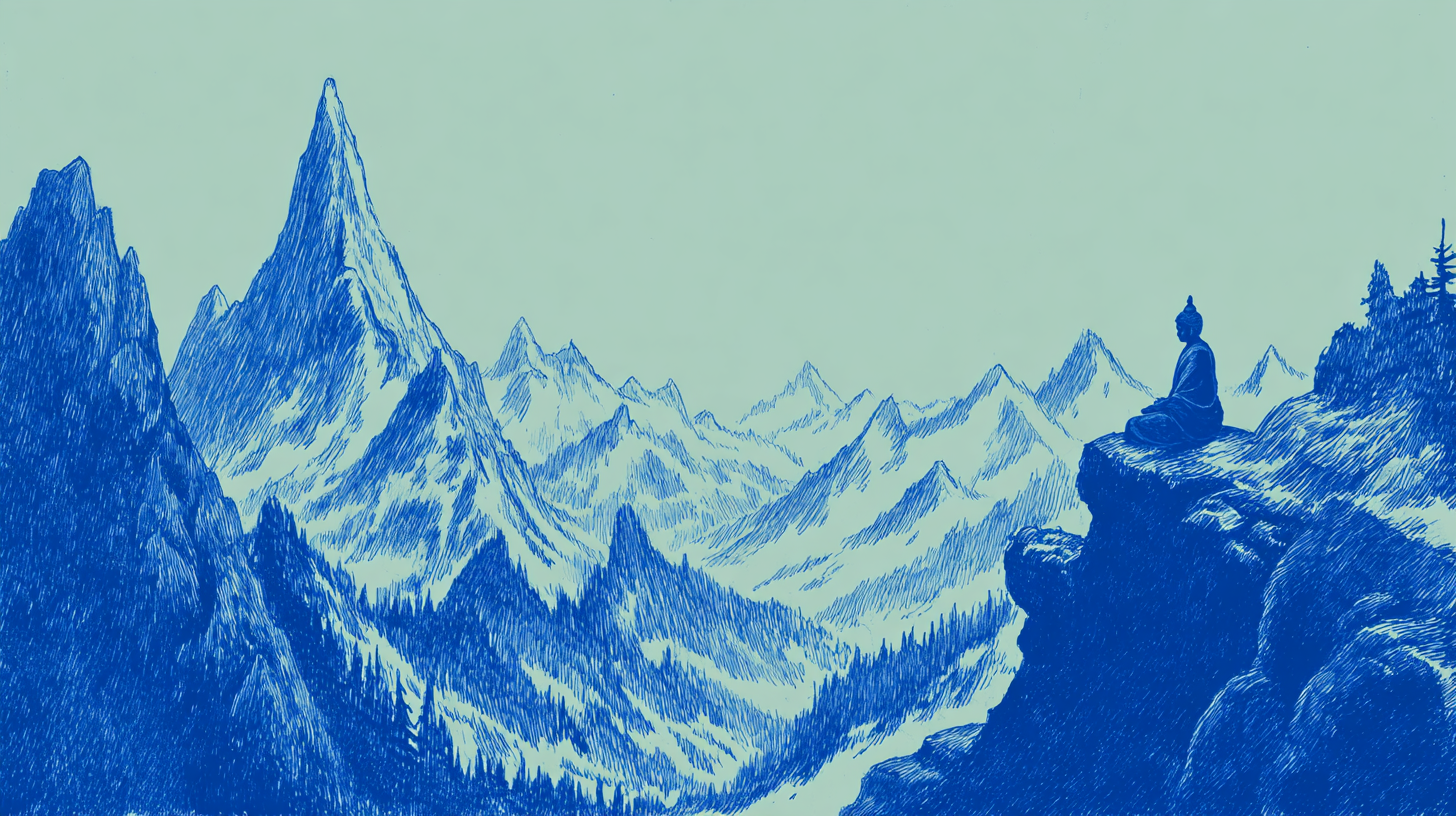
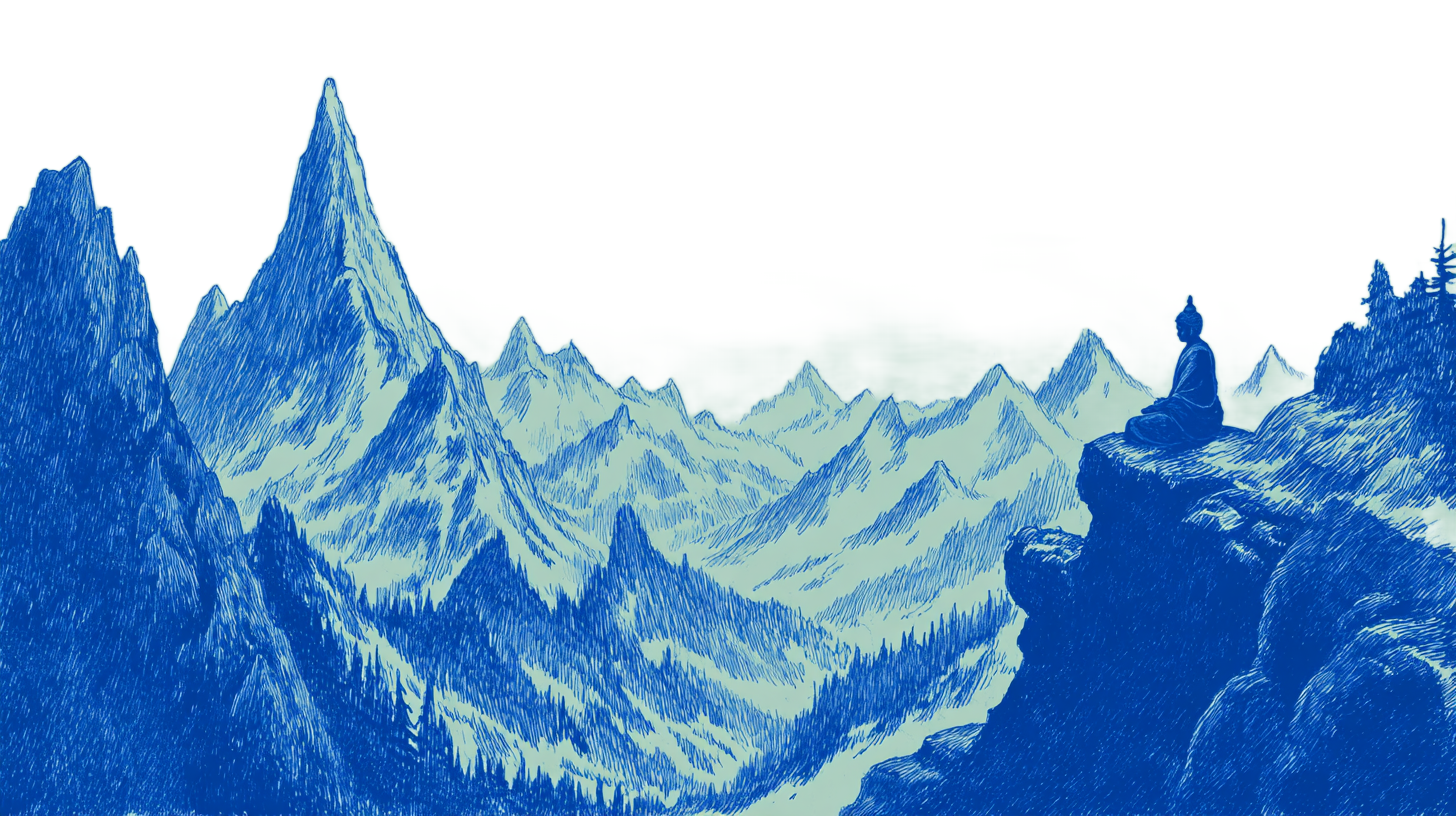
backgruond and better ground! note: bad tiling with the bounding boxes of te ground still

diff --git a/src/render.js b/src/render.js
@@ -19,7 +19,6 @@ import {
   isWorldLoaded,
   getWorldData,
   getTileSize,
-  TILE_COLORS,
   getWorldPixelWidth,
   getWorldPixelHeight,
 } from './world.js';
@@ -31,9 +30,12 @@ import { SPRITE_SCALE, ANIM_SPEED, LOOPS, getAnimState } from './sprites.js';
 // Camera
 // ---------------------------------------------------------------------------
 
-/** Player viewport vertical offset — shows a bit more terrain below player. */
-/** Recomputed each frame so resizing doesn't shift the vertical viewport anchor. */
-function _camYOffset() { return getCanvasHeight() * 0.45; }
+/**
+ * How far from the top of the screen the player's centre sits.
+ * Set to ~0.78 so the ground (player feet) lands at roughly 4/5 down —
+ * i.e. 1/5 from the bottom — giving a wide, airy sky.
+ */
+function _camYOffset() { return getCanvasHeight() * 0.78; }
 
 // ---------------------------------------------------------------------------
 // Layer references (initialised lazily on first render call)
@@ -70,14 +72,11 @@ const _liveIds = new Set();
 // ---------------------------------------------------------------------------
 
 /** @type {PIXI.Graphics|null} */
-let _tileGfx = null;
+let _groundGfx = null;
 
-const _tileCache = {
-  worldWidth: -1, worldHeight: -1, tileSize: -1,
-  worldRevision: -1,
-  startX: -1, endX: -1, startY: -1, endY: -1,
-  valid: false,
-};
+/** Cached per-column surface Y (world-px). Rebuilt when world revision changes. */
+let _groundSurface   = null;   // Float32Array, length = world tile width
+let _groundRevision  = -1;
 
 // ---------------------------------------------------------------------------
 // Darkness / lighting state
@@ -142,10 +141,8 @@ export function render(worldLayer, darknessLayer, entities, miningState) {
   worldLayer.x = -Math.round(camX);
   worldLayer.y = -Math.round(camY);
 
-  // ── Terrain ──────────────────────────────────────────────────────────────
-  if (isWorldLoaded()) {
-    _renderTilesIfNeeded(worldLayer, camX, camY);
-  }
+  // ── Ground ───────────────────────────────────────────────────────────────
+  _renderGround(worldLayer, camX, camY);
 
   // ── Entity visuals ───────────────────────────────────────────────────────
   _liveIds.clear();
@@ -432,55 +429,98 @@ function _getGradientTexture(radius) {
 // Terrain
 // ---------------------------------------------------------------------------
 
-function _renderTilesIfNeeded(worldLayer, camX, camY) {
-  if (!_tileGfx) {
-    _tileGfx = new PIXI.Graphics();
-    worldLayer.addChildAt(_tileGfx, 0);          // behind everything
+/**
+ * Draw a smooth, slightly rolling ground fill in a papery off-white.
+ *
+ * The ground surface is derived from the tile data (first solid tile per
+ * column), lightly smoothed, then rendered as a single filled polygon that
+ * extends from the surface down to the bottom of the world.  No grid, no
+ * individual tile colours — just a clean organic landmass.
+ *
+ * When the world isn't loaded yet the function is a no-op.
+ */
+function _renderGround(worldLayer, camX, camY) {
+  if (!isWorldLoaded()) return;
+
+  if (!_groundGfx) {
+    _groundGfx = new PIXI.Graphics();
+    worldLayer.addChildAt(_groundGfx, 0);   // behind entities
   }
 
   const world = getWorldData();
   const { tiles, width, height, tileSize: ts, revision } = world;
+  if (!tiles) return;
 
-  const startX = Math.max(0,          Math.floor(camX / ts) - 1);
-  const endX   = Math.min(width  - 1, Math.ceil((camX + getCanvasWidth())  / ts) + 1);
-  const startY = Math.max(0,          Math.floor(camY / ts) - 1);
-  const endY   = Math.min(height - 1, Math.ceil((camY + getCanvasHeight()) / ts) + 1);
-
-  const sameWindow =
-    _tileCache.valid &&
-    _tileCache.worldWidth    === width    &&
-    _tileCache.worldHeight   === height   &&
-    _tileCache.tileSize      === ts       &&
-    _tileCache.worldRevision === revision &&
-    _tileCache.startX === startX && _tileCache.endX === endX &&
-    _tileCache.startY === startY && _tileCache.endY === endY;
-
-  if (sameWindow) return;
-
-  _tileGfx.clear();
-
-  for (let ty = startY; ty <= endY; ty++) {
-    const row = ty * width;
-    const py  = ty * ts;
-
-    for (let tx = startX; tx <= endX; tx++) {
-      const tileType = tiles[row + tx];
-      if (tileType === 0) continue;
-
-      const color = TILE_COLORS[tileType] ?? 0x888888;
-      _tileGfx.beginFill(color);
-      _tileGfx.drawRect(tx * ts, py, ts, ts);
-      _tileGfx.endFill();
+  // ── Rebuild surface cache when world data changes ─────────────────────────
+  if (revision !== _groundRevision || !_groundSurface) {
+    _groundSurface  = new Float32Array(width);
+    for (let tx = 0; tx < width; tx++) {
+      let surfaceY = height * ts;           // default: world floor
+      for (let ty = 0; ty < height; ty++) {
+        if (tiles[ty * width + tx] !== 0) {
+          surfaceY = ty * ts;
+          break;
+        }
+      }
+      _groundSurface[tx] = surfaceY;
     }
+    _groundRevision = revision;
   }
 
-  _tileCache.worldWidth    = width;
-  _tileCache.worldHeight   = height;
-  _tileCache.tileSize      = ts;
-  _tileCache.worldRevision = revision;
-  _tileCache.startX = startX; _tileCache.endX = endX;
-  _tileCache.startY = startY; _tileCache.endY = endY;
-  _tileCache.valid  = true;
+  // ── Determine the tile columns that are (slightly) off-screen ─────────────
+  const W      = getCanvasWidth();
+  const worldH = height * ts;
+
+  // Add generous margin so the polygon never has a visible left/right gap.
+  const startTx = Math.max(0,         Math.floor(camX / ts) - 3);
+  const endTx   = Math.min(width - 1, Math.ceil((camX + W) / ts) + 3);
+
+  // ── Build smoothed surface points ─────────────────────────────────────────
+  // Average over a small window (±4 tiles) to soften any hard tile steps.
+  const SMOOTH_R = 4;
+  const pts = [];   // [{x, y}] in world-px
+
+  for (let tx = startTx; tx <= endTx; tx++) {
+    let sum = 0, n = 0;
+    for (let d = -SMOOTH_R; d <= SMOOTH_R; d++) {
+      const nx = Math.max(0, Math.min(width - 1, tx + d));
+      // Weight: closer columns matter more (triangle kernel)
+      const w = SMOOTH_R + 1 - Math.abs(d);
+      sum += _groundSurface[nx] * w;
+      n   += w;
+    }
+    pts.push({ x: tx * ts + ts * 0.5, y: sum / n });
+  }
+
+  // ── Draw filled ground polygon ─────────────────────────────────────────────
+  // Papery off-white — warm, slightly yellowish, like uncoated paper.
+  const GROUND_COLOR = 0xf5e6c8;
+
+  _groundGfx.clear();
+  _groundGfx.beginFill(GROUND_COLOR, 1);
+
+  // Start at bottom-left corner, trace surface left→right, close at bottom-right.
+  const leftX  = pts[0].x;
+  const rightX = pts[pts.length - 1].x;
+
+  _groundGfx.moveTo(leftX,  worldH + 200);
+  _groundGfx.lineTo(leftX,  pts[0].y);
+
+  // Use quadratic Bézier midpoints for a silky smooth curve.
+  for (let i = 0; i < pts.length - 1; i++) {
+    const p0 = pts[i];
+    const p1 = pts[i + 1];
+    const mx = (p0.x + p1.x) * 0.5;
+    const my = (p0.y + p1.y) * 0.5;
+    _groundGfx.quadraticCurveTo(p0.x, p0.y, mx, my);
+  }
+  // Finish curve through the last point
+  const last = pts[pts.length - 1];
+  _groundGfx.lineTo(last.x, last.y);
+
+  _groundGfx.lineTo(rightX, worldH + 200);
+  _groundGfx.closePath();
+  _groundGfx.endFill();
 }
 
 // ---------------------------------------------------------------------------

diff --git a/src/parallax.js b/src/parallax.js
@@ -1,0 +1,129 @@
+// parallax.js — Sequential parallax background scenes.
+//
+// Images are arranged end-to-end along the horizontal axis, each scene
+// covering a wide stretch of the world.  They only very slightly overlap at
+// their boundaries.  Each image has a tiny individual speed offset so that
+// near a boundary the two images drift apart at slightly different rates,
+// giving a sense of depth during the transition.
+//
+// Usage (main.js):
+//   const parallaxLayer = new PIXI.Container();
+//   stage.addChildAt(parallaxLayer, 0);   // behind worldLayer
+//   await initParallax(parallaxLayer);
+//   // then each frame:
+//   updateParallax(camX);
+
+import { getCanvasWidth, getCanvasHeight } from './config.js';
+
+// ---------------------------------------------------------------------------
+// Config
+// ---------------------------------------------------------------------------
+
+const FILES = ['1.png', '2.png', '3.png', '5.png', '6.png', '8.png', '10.png'];
+
+// How large to display each image (uniform scale — tweak to taste).
+const DISPLAY_SCALE = 1.0;
+
+// How much adjacent scenes overlap in screen pixels at camX = 0.
+// Keep this small — just enough to avoid a hard seam.
+const OVERLAP_PX = 2;
+
+// Base parallax factor: the background as a whole scrolls at this fraction
+// of the camera speed, making it feel like a distant backdrop.
+const BASE_SPEED = 0.85;
+
+// Each successive image gets this much extra speed on top of BASE_SPEED.
+// Tiny value — only perceptible at the boundary where two images meet.
+const SPEED_STEP = 0.012;
+
+// ---------------------------------------------------------------------------
+// State
+// ---------------------------------------------------------------------------
+
+/**
+ * @typedef {{
+ *   sprite:  PIXI.Sprite,
+ *   baseX:   number,
+ *   speed:   number,
+ *   displayW: number,
+ *   displayH: number,
+ * }} Scene
+ * @type {Scene[]}
+ */
+const _scenes = [];
+let _ready = false;
+
+// ---------------------------------------------------------------------------
+// Public API
+// ---------------------------------------------------------------------------
+
+/**
+ * Load every scene image and position the sprites end-to-end.
+ * Await this before starting the game loop to avoid pop-in.
+ *
+ * @param {PIXI.Container} container  Screen-space container (not moved by camera).
+ */
+export async function initParallax(container) {
+  const textures = await Promise.all(
+    FILES.map(f => PIXI.Texture.fromURL(`assets/paralax/${f}`))
+  );
+
+  // Nearest-neighbour keeps pixel art crisp at any scale.
+  for (const tex of textures) {
+    tex.baseTexture.scaleMode = PIXI.SCALE_MODES.NEAREST;
+  }
+
+  const H = getCanvasHeight();
+
+  // Walk left-to-right, placing each scene after the previous one minus the
+  // small overlap so they're nearly (but not completely) non-overlapping.
+  let cursorX = 0;
+
+  textures.forEach((tex, i) => {
+    const displayW = tex.width  * DISPLAY_SCALE;
+    const displayH = tex.height * DISPLAY_SCALE;
+
+    const sprite = new PIXI.Sprite(tex);
+    sprite.scale.set(DISPLAY_SCALE);
+
+    // Anchor at bottom-left so all scenes sit on the same ground line.
+    sprite.anchor.set(0, 1);
+
+    // baseX is the resting left edge of this scene in background-space.
+    const baseX = cursorX;
+
+    // Each image's individual scroll speed is BASE_SPEED + a tiny per-image
+    // increment.  The further right the scene, the marginally faster it
+    // scrolls, which causes a subtle drift between neighbours at transitions.
+    const speed = BASE_SPEED + i * SPEED_STEP;
+
+    container.addChild(sprite);
+    _scenes.push({ sprite, baseX, speed, displayW, displayH });
+
+    // Advance cursor, pulling the next scene back by OVERLAP_PX.
+    cursorX += displayW - OVERLAP_PX;
+  });
+
+  _ready = true;
+  // Position everything immediately so there's no one-frame jump.
+  updateParallax(0);
+}
+
+/**
+ * Drive the parallax scroll.  Call once per frame.
+ *
+ * @param {number} camX  Current camera X in world-space pixels.
+ */
+export function updateParallax(camX) {
+  if (!_ready) return;
+
+  const H = getCanvasHeight();
+
+  for (const { sprite, baseX, speed, displayH } of _scenes) {
+    // Each scene slides left at its own speed.  Because speed < 1 the whole
+    // backdrop moves slower than the world, and because speeds differ slightly
+    // the scenes drift relative to each other at their shared boundaries.
+    sprite.x = baseX - camX * speed;
+    sprite.y = H;
+  }
+}

diff --git a/src/main.js b/src/main.js
@@ -10,6 +10,8 @@ import { getCanvasWidth, getCanvasHeight, BG_COLOR } from './config.js';
 import { preloadAllCharacters } from './assetLoader.js';
 import { getSlots, getSelectedSlot, HOTBAR_SLOTS } from './inventory.js';
 import { TILE_COLORS } from './world.js';
+import { getCameraPosition } from './camera.js';
+import { initParallax, updateParallax } from './parallax.js';
 
 /** How often (seconds) to broadcast our position + velocity for drift correction. */
 const POSITION_SYNC_INTERVAL = 0.1;
@@ -23,7 +25,9 @@ const STATUS_SAMPLE_INTERVAL = 0.2;
   await preloadAllCharacters();
 
   const app = createApp();
-  const { worldLayer, darknessLayer, hudLayer } = createLayers(app.stage);
+  const { parallaxLayer, worldLayer, darknessLayer, hudLayer } = createLayers(app.stage);
+
+  await initParallax(parallaxLayer);
 
   setupInput();
   setupNetwork();
@@ -85,6 +89,7 @@ const STATUS_SAMPLE_INTERVAL = 0.2;
     }
 
     render(worldLayer, darknessLayer, entities, getMiningState());
+    updateParallax(getCameraPosition().x);
 
     // Hotbar — update every frame (cheap Graphics redraw, also keeps positions in sync)
     updateHotbar();
@@ -124,17 +129,20 @@ function createApp() {
 }
 
 function createLayers(stage) {
+  // parallaxLayer sits behind everything — added first so it's at index 0.
+  const parallaxLayer = new PIXI.Container();
   const worldLayer    = new PIXI.Container();
   // darknessLayer sits between the world and the HUD so it darkens terrain
   // and entities but never obscures status text or controls hint.
   const darknessLayer = new PIXI.Container();
   const hudLayer      = new PIXI.Container();
 
+  stage.addChild(parallaxLayer);
   stage.addChild(worldLayer);
   stage.addChild(darknessLayer);
   stage.addChild(hudLayer);
 
-  return { worldLayer, darknessLayer, hudLayer };
+  return { parallaxLayer, worldLayer, darknessLayer, hudLayer };
 }
 
 function buildHud(hudLayer) {

diff --git a/src/config.js b/src/config.js
@@ -5,7 +5,7 @@
 // just more world visible).
 export function getCanvasWidth()  { return window.innerWidth;  }
 export function getCanvasHeight() { return window.innerHeight; }
-export const BG_COLOR = 0x0d0d1a;
+export const BG_COLOR = 0xdedad4;
 
 // Player dimensions (visual + collision box for Phase 3)
 export const PLAYER_WIDTH = 18;
@@ -15,7 +15,7 @@ export const PLAYER_BOX_OFFSET_Y = 0;
 
 // Phase 4 — lighting
 /** Radius in world-space pixels of each player's carried light source. */
-export const LIGHT_RADIUS = 180;
+export const LIGHT_RADIUS = 1800;
 
 // Phase 5 — Block interaction
 /** World-space pixel radius within which a player can mine/place. */
